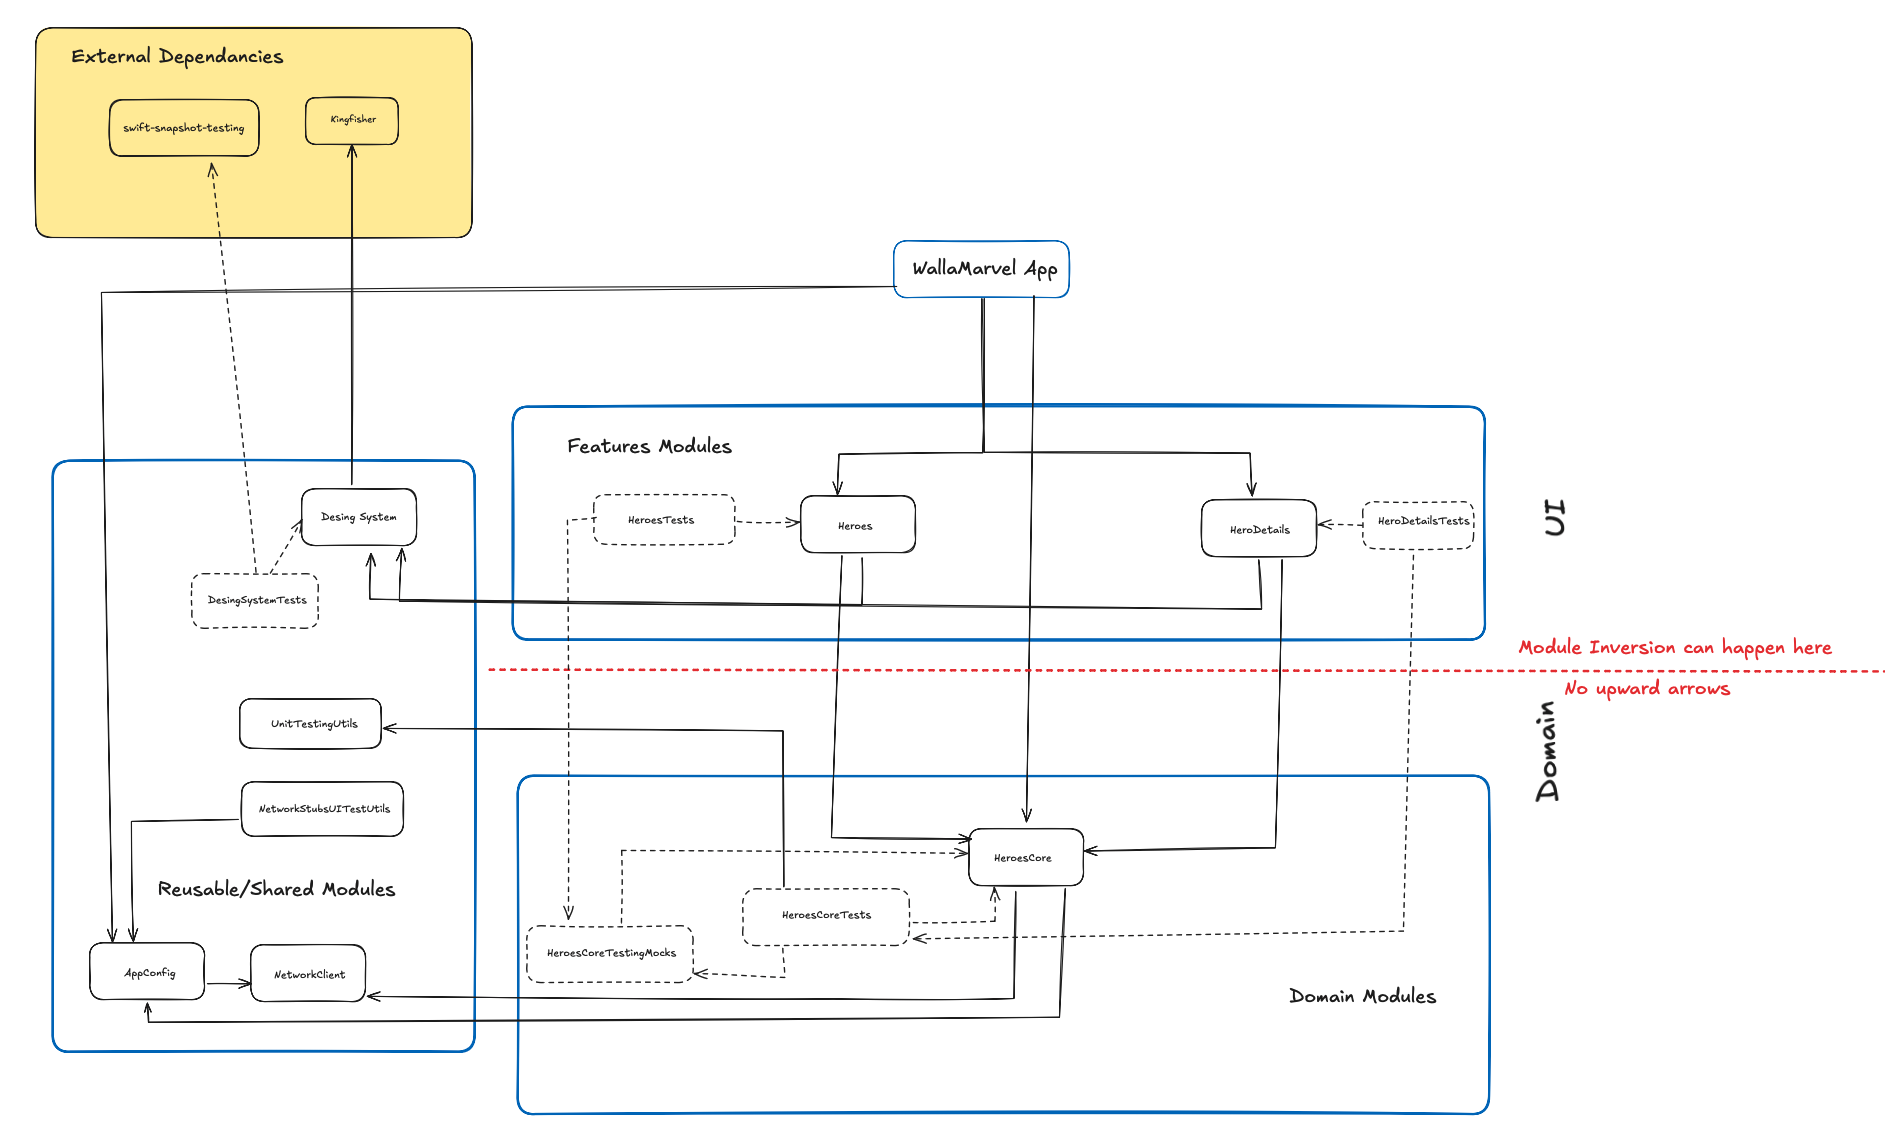
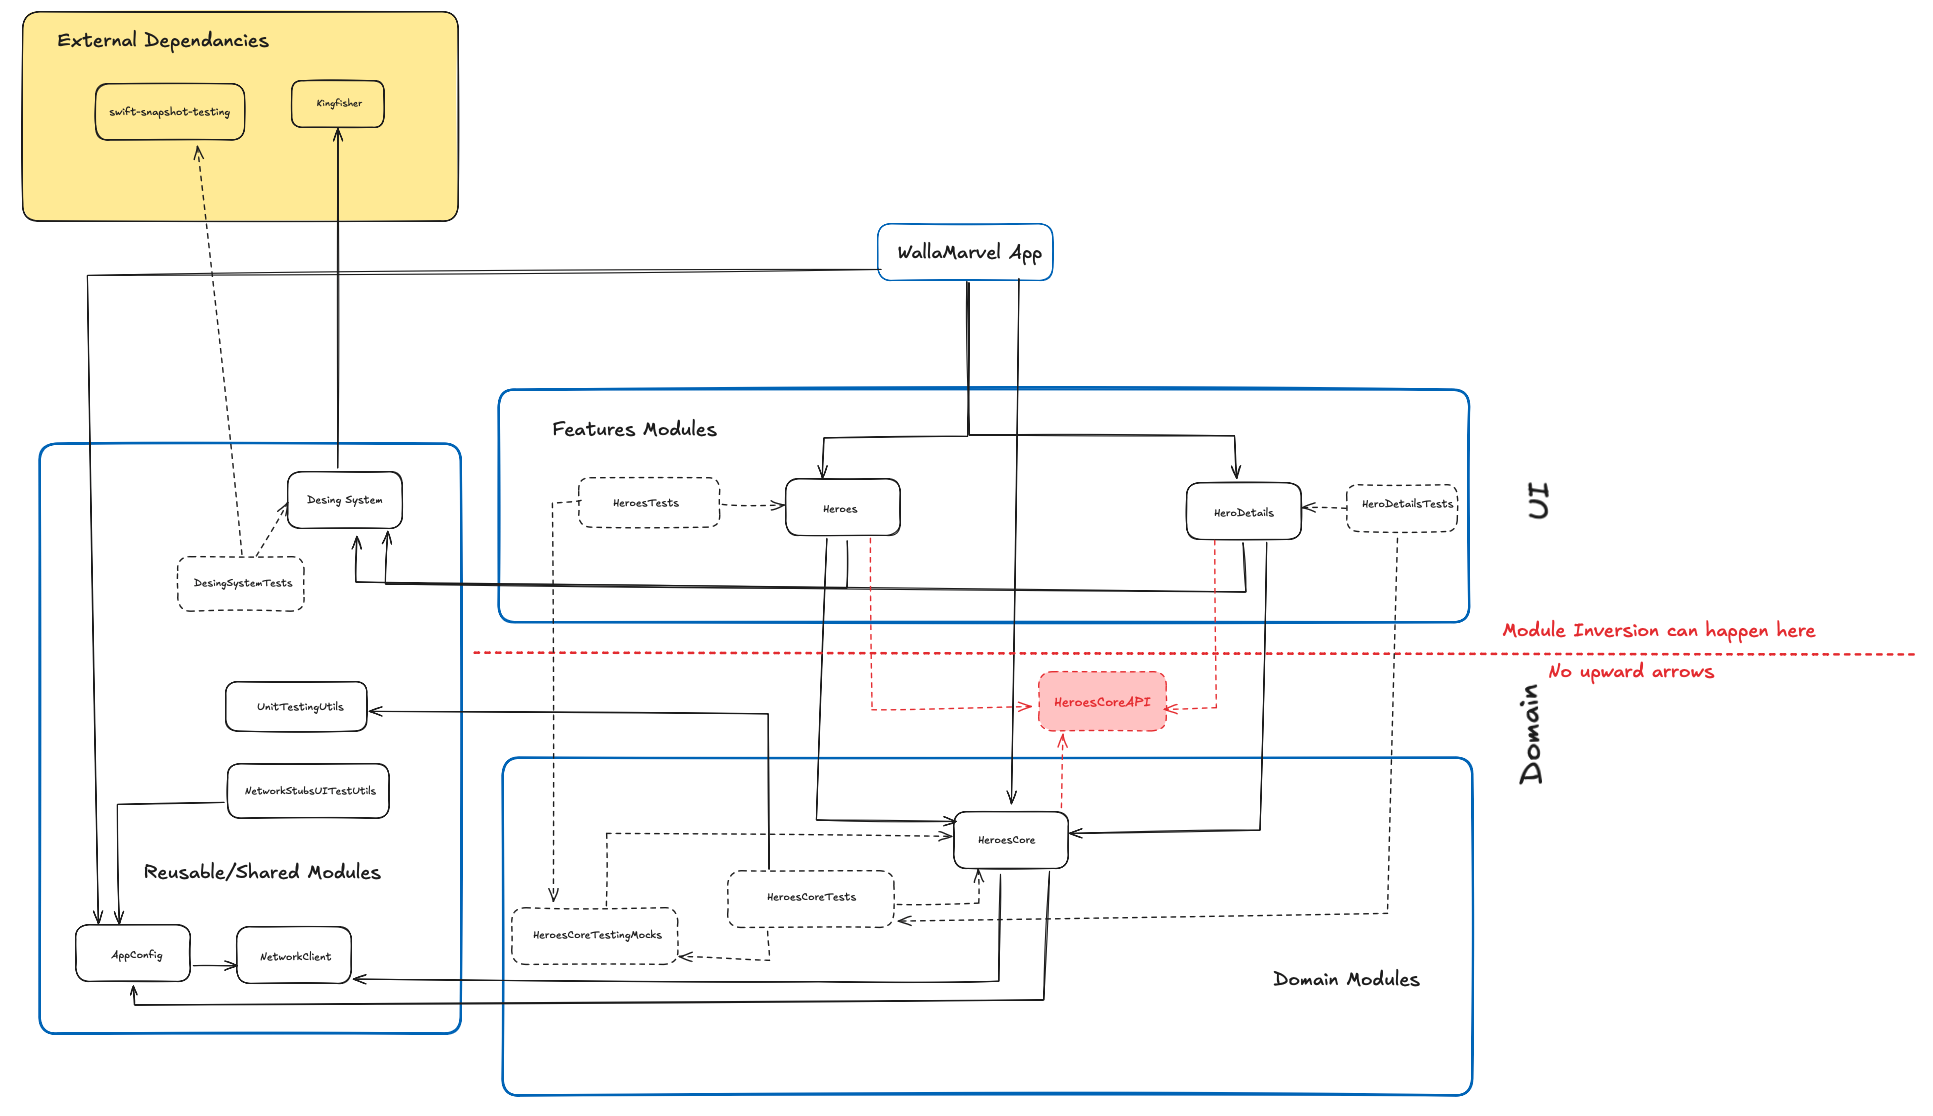
MRVL-25 [core-team] added final documentations

Changed region(s): [[0.0, 0.0, 0.9846, 0.9749], [0.2769, 0.9749, 0.8, 1.0], [0.6462, 0.853, 0.7692, 0.914]]

diff --git a/README.md b/README.md
@@ -15,6 +15,13 @@ WallaMarvel uses the public Marvel API to display a **Heroes List** with infinit
 
 ![Module dependency graph](docs/dependency-graph.png)
 
+### Notes about the modules graph
+- All the red color are not implemented, but it is here show how would I make higher decoupling between domain layer and presentation layer
+- **HeroesCoreAPI** - should be module that own only the shared types that both layers (domain and UI) needs to know in order to communicate with each other
+- **HeroesCoreAPI** - must only have the public Types and Protocols used cross layer communication.
+- **HeroesCoreAPI** - must have NO implementation 
+- by doing this arrows going down from the low level module(UI) would not pass to the higher level module (Domain), both will depend on abstraction
+
 ## Modules
 The app is highly modularized using SPM:
 
@@ -32,7 +39,7 @@ The app is highly modularized using SPM:
 
 - **MVVM** for feature UIs  
 - **Repository** in `HeroesCore` to abstract data sources  
-- **Coordinator** to drive navigation between screens (in progress)
+- **Coordinator** to drive navigation between screens
 
 ## Caching & Offline Behavior
 To provide a smooth, offline-friendly experience:
@@ -47,9 +54,12 @@ To provide a smooth, offline-friendly experience:
 - **Race-safety:** if the user scrolls to paginate while the initial cache refresh hasn’t finished, we **defer pagination** until the refresh completes.
 
 ## Testing
-- **Snapshot Tests** — `DesignSystem` components are covered with snapshot tests.
+- **Snapshot Tests** — only `DesignSystem` components are covered with snapshot tests. to be improved, cover important screen with this type of testing to make sure that grouping the components in one screen are placed properly 
 - **Unit Tests** — Each module ships its own unit tests for core logic.
 - **UI Tests** — Live in the app target and cover the core user flow.
 
 ## CI
-In progress…
+- It is work in progress on brach `MRVL-16/feature/added-ci`
+- I am using Github Actions
+- The file is structured with steps that the workflow would do when a Job runs 
+- Just created one to run all the tests including the UITests with any PR review, but ideally in real world, I would makes only unit tests runs with PR review and UITests to run only before the release or at scheduled times  
